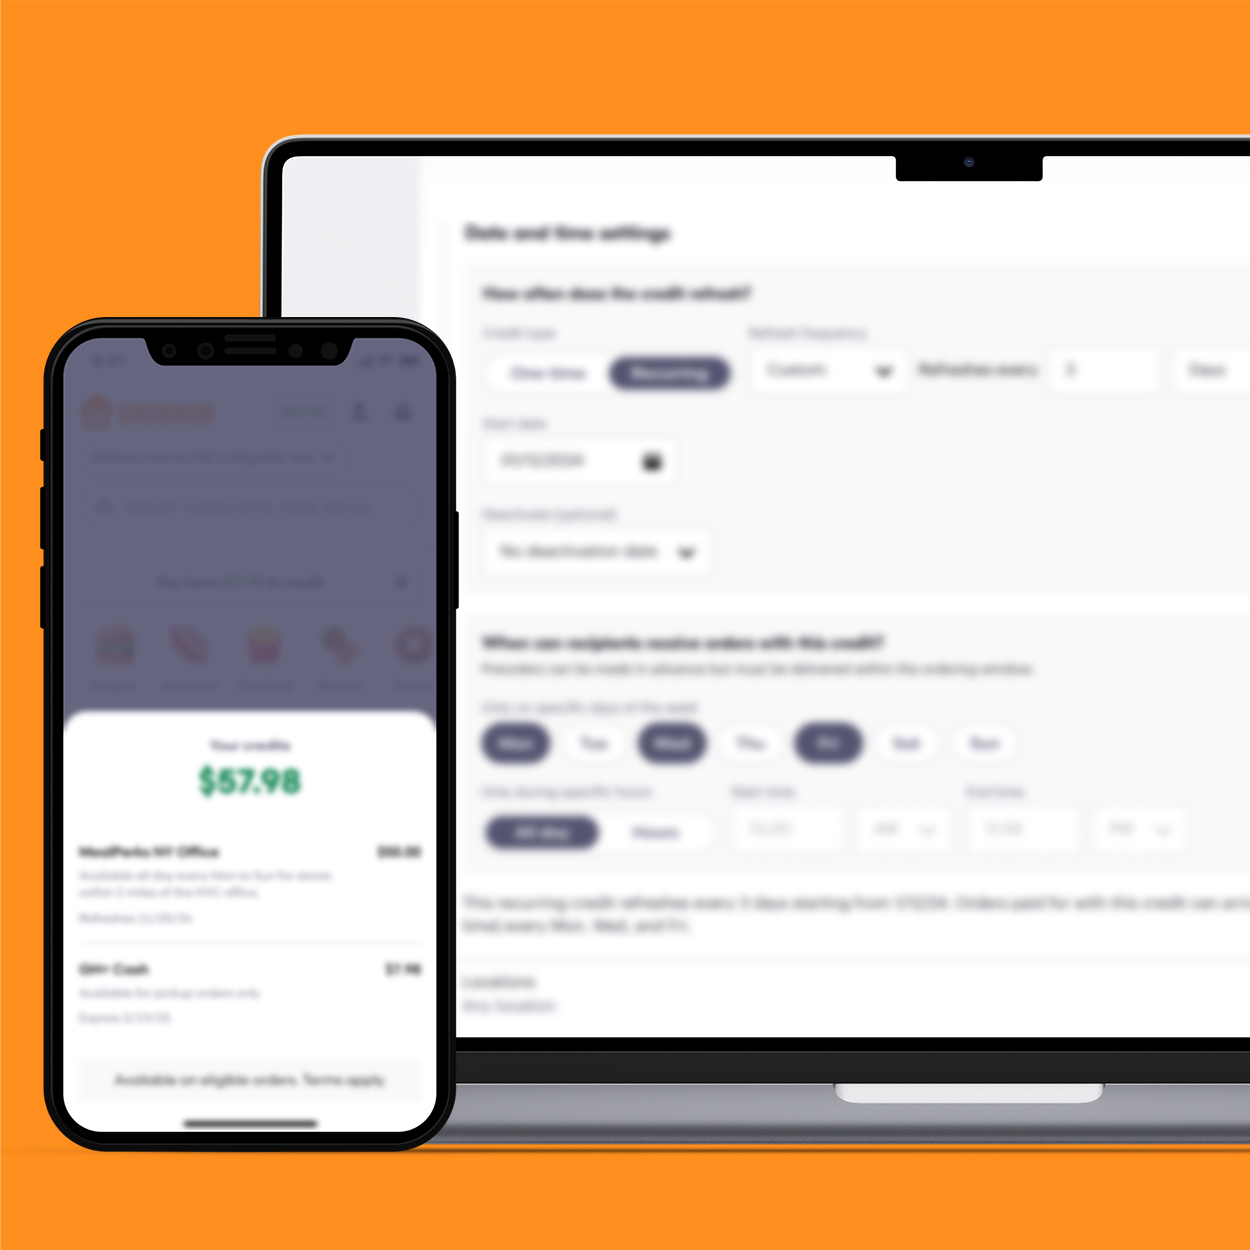
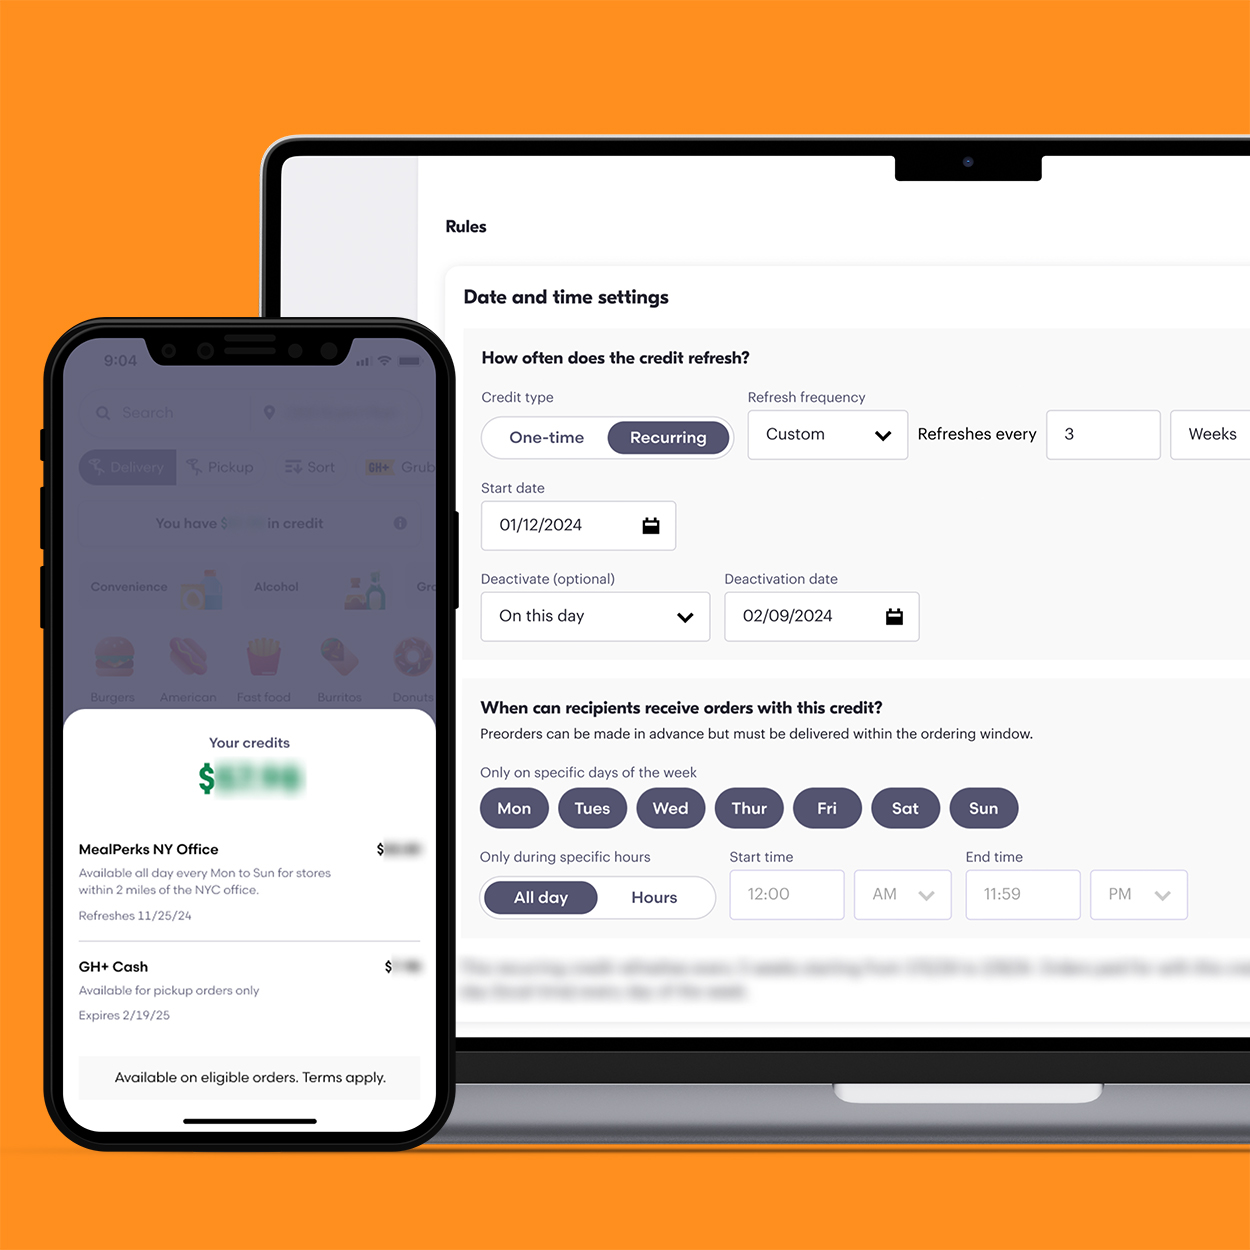
Updated solution image, context shots and thumbnails

diff --git a/pages/featured-work/platform-modularity-reports.html b/pages/featured-work/platform-modularity-reports.html
@@ -94,7 +94,7 @@
     (function() {
 
         // Replace this
[2 lines of base64/hex data omitted]
         
         var submitPass = document.getElementById('submitPass');
         var passEl = document.getElementById('pass');

diff --git a/pages/featured-work/meal-credit-schedule.html b/pages/featured-work/meal-credit-schedule.html
@@ -100,7 +100,7 @@
 		</div>
 		<div class="row general-row-space">
 			<div class="col col-12 col-lg-6 offset-lg-3">
-				<p>Meal Credit Schedule is a setting within the <a href="https://corporate.grubhub.com/?page=Homepage" target="_blank">meal benefit program</a> that enables admins to configure when diners can receive their orders paid for with the meal credit. We're improving the flexibility of the delivery window to empower admins to customize, set and forget their meal programs with ease.</p>
+				<p>Meal Credit Schedule is a setting within the <a href="https://corporate.grubhub.com/?page=Homepage" target="_blank">meal benefit program</a> that enables admins to configure when diners can receive their orders paid for with the meal credit. We're improving the flexibility of the receiving window to empower admins to customize, set and forget their meal programs with ease.</p>
 			</div>
 		</div>
 		<div class="row v-30-gap">
@@ -139,8 +139,8 @@
 		<div class="row specific-row-space v-20-gap">
 			<div class="col col-12 col-lg-6 offset-lg-3">
 				<h2 class="topic-h2 bold">Problem</h2>
-				<p>Grubhub Corporate's current market claim to fame is that we are "the industry's most flexible meal perks platform". As such, clients expect our meal credit schedule setting to be robust and adaptable to their needs. However, in reality, the feature had limited options to set refresh cadences and delivery windows, which left clients frustrated. So, we're enhancing the schedule setting to expand the options on when corporate diners can receive their orders using the meal credit.</p>
-				<p class="bold"><span class="project-color-text">Challenge:</span> How might we enhance the meal credit scheduling feature to increase the flexibility of a meal credit's delivery window permissions?</p>
+				<p>Grubhub Corporate's current market claim to fame is that we are "the industry's most flexible meal perks platform". As such, clients expect our meal credit schedule setting to be robust and adaptable to their needs. However, in reality, the feature had limited options to set refresh cadences and receiving windows, which left clients frustrated. So, we're enhancing the schedule setting to expand the options on when corporate diners can receive their orders using the meal credit.</p>
+				<p class="bold"><span class="project-color-text">Challenge:</span> How might we enhance the meal credit scheduling feature to increase the flexibility of a meal credit's receiving window permissions?</p>
 			</div>
 		</div>
 		<div class="row specific-row-space v-20-gap">
@@ -266,7 +266,7 @@
 					<span class="callout">
 						<img class="callout-icon" src="../../img/meal-credit-schedule-design-takeaway-2.svg">
 						<p class="topic-h4 bold">Inconsistent Options</p>
-						<p class="point-caption">Not all cadence options have the same delivery window options, e.g. only daily credits can select a delivery time frame</p>
+						<p class="point-caption">Not all cadence options have the same receiving window options, e.g. only daily credits can select a receiving time frame</p>
 					</span>
 					<span class="callout">
 						<img class="callout-icon" src="../../img/meal-credit-schedule-design-takeaway-3.svg">
@@ -291,13 +291,13 @@
 		<div class="row specific-row-space v-20-gap">
 			<div class="col col-12 col-lg-6 offset-lg-3">
 				<h2 class="topic-h2 bold">Solution</h2>
-				<p>I re-designed the meal credit schedule setting by re-organizing the field placements in consideration of the new cadence and delivery window options, improving field labels to better align with Grubhub's copy standard, and revamping the caption summary for admins to validate if they have customized the schedule settings as intended. Here are some examples of use cases that admins can customize:</p>
+				<p>I re-designed the meal credit schedule setting by re-organizing the field placements in consideration of the new cadence and receiving window options, improving field labels to better align with Grubhub's copy standard, and revamping the caption summary for admins to validate if they have customized the schedule settings as intended. Here are some examples of use cases that admins can customize:</p>
 			</div>
 		</div>
 		<div class="row v-20-gap">
 			<div class="col col-12 col-lg-6 offset-lg-3">
 				<h3 class="topic-h3 bold v-20-gap">Day Setting</h3>
-				<p>Admins can set a meal credit that lasts for a day or refreshes daily. Both options allow admins to specify the delivery time frame, but only a daily credit can specify which days of the week diners can receive their orders paid for with this credit.</p>
+				<p>Admins can set a meal credit that lasts for a day or refreshes daily. Both options allow admins to specify the receiving time frame, but only a daily credit can specify which days of the week diners can receive their orders paid for with this credit.</p>
 			</div>
 		</div>
 		<div class="row v-40-gap">
@@ -341,6 +341,26 @@
 			<div class="col col-12 col-lg-8 offset-lg-2">
 				<img class="featured-image box-shadow" src="../../img/meal-credit-schedule-custom-weeks-setting.png">
 				<p class="caption">A meal credit that refreshes every 3 weeks.</p>
+			</div>
+		</div>
+		<div class="row v-20-gap">
+			<div class="col col-12 col-lg-6 offset-lg-3">
+				<h3 class="topic-h3 bold v-20-gap">Meal Credit Schedule on the Diner's Side</h3>
+				<p>Once the scheduled meal credit has been created, the assigned diners will be able to see it in their wallet and checkout screen of the Grubhub app, and learn about the credit's receiving window.</p>
+			</div>
+		</div>
+		<div class="row v-40-gap justify-content-md-center">
+			<div class="col col-lg-3">
+				<img class="featured-image box-shadow" src="../../img/meal-credit-schedule-diner-side-1.png">
+			</div>
+			<div class="col col-lg-3">
+				<img class="featured-image box-shadow" src="../../img/meal-credit-schedule-diner-side-2.png">
+			</div>
+			<div class="col col-lg-3">
+				<img class="featured-image box-shadow" src="../../img/meal-credit-schedule-diner-side-3.png">
+			</div>
+			<div class="col col-12">
+				<p class="caption">Diners viewing their meal credit schedule in Wallet and Checkout.</p>
 			</div>
 		</div>
 		<div class="row specific-row-space">
